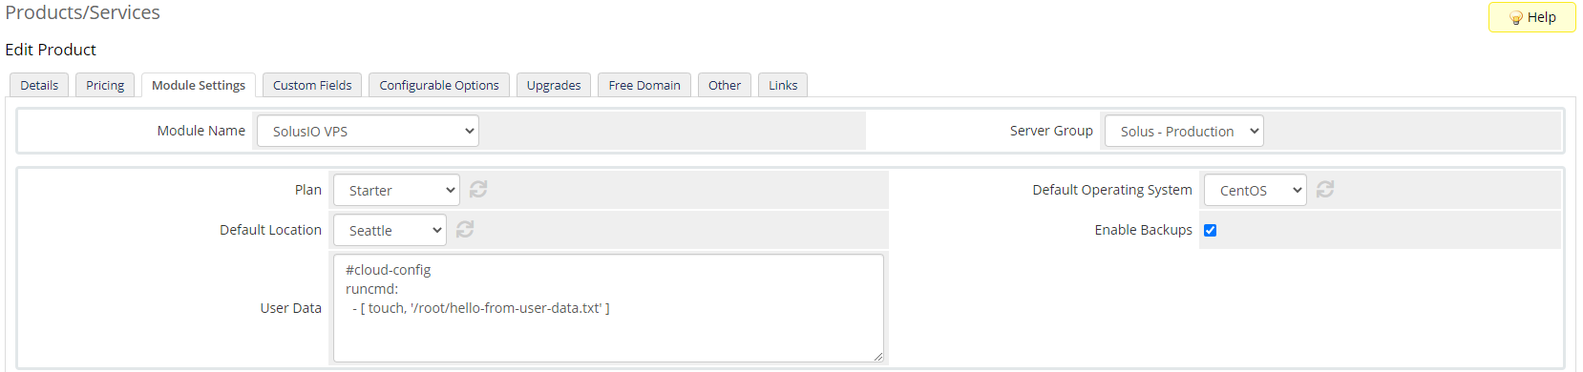
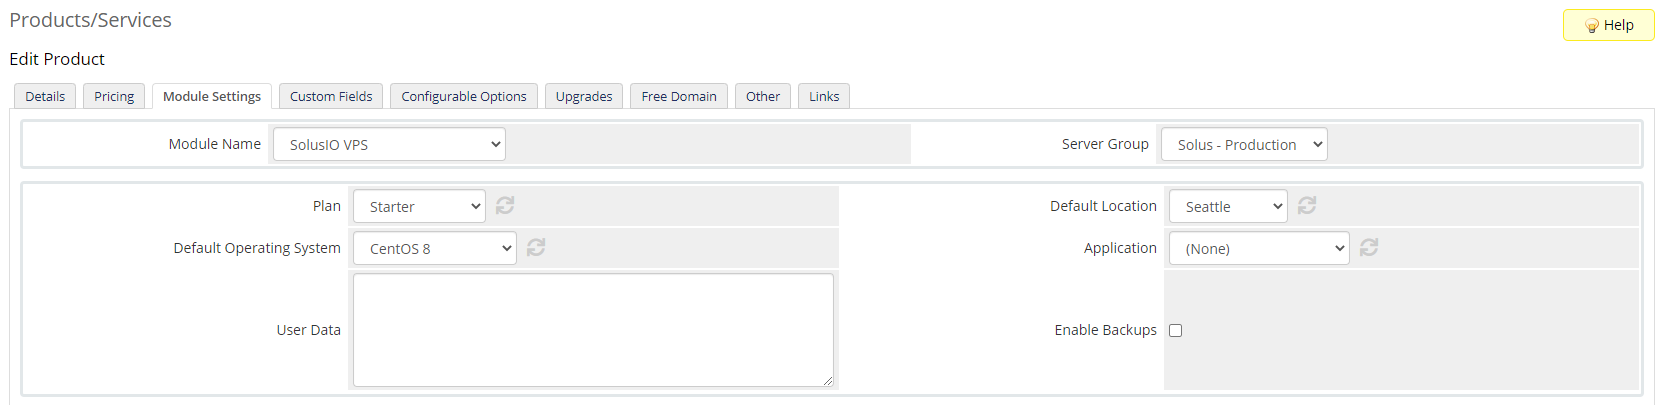
Add support for applications

diff --git a/lib/module.php b/lib/module.php
@@ -7,6 +7,7 @@ use WHMCS\Module\Server\SolusIoVps\Helpers\Arr;
 use WHMCS\Module\Server\SolusIoVps\Logger\Logger;
 use WHMCS\Module\Server\SolusIoVps\SolusAPI\Helpers\DataWrapper;
 use WHMCS\Module\Server\SolusIoVps\SolusAPI\Helpers\Strings;
+use WHMCS\Module\Server\SolusIoVps\SolusAPI\Resources\ApplicationResource;
 use WHMCS\Module\Server\SolusIoVps\SolusAPI\Resources\LocationResource;
 use WHMCS\Module\Server\SolusIoVps\SolusAPI\Resources\OsImageResource;
 use WHMCS\Module\Server\SolusIoVps\SolusAPI\Resources\PlanResource;
@@ -69,13 +70,6 @@ function solusiovps_ConfigOptions(): array
             'Loader' => 'solusiovps_PlanLoader',
             'SimpleMode' => true,
         ],
-        'os_image' => [
-            'FriendlyName' => $_LANG['solusiovps_config_option_default_operating_system'],
-            'Type' => 'text',
-            'Size' => '25',
-            'Loader' => 'solusiovps_OsImageLoader',
-            'SimpleMode' => true,
-        ],
         'location' => [
             'FriendlyName' => $_LANG['solusiovps_config_option_default_location'],
             'Type' => 'text',
@@ -83,9 +77,18 @@ function solusiovps_ConfigOptions(): array
             'Loader' => 'solusiovps_LocationLoader',
             'SimpleMode' => true,
         ],
-        'backup_enabled' => [
-            'FriendlyName' => $_LANG['solusiovps_config_option_backup_enabled'],
-            'Type' => 'yesno',
+        'os_image' => [
+            'FriendlyName' => $_LANG['solusiovps_config_option_default_operating_system'],
+            'Type' => 'text',
+            'Size' => '25',
+            'Loader' => 'solusiovps_OsImageLoader',
+            'SimpleMode' => true,
+        ],
+        'application' => [
+            'FriendlyName' => $_LANG['solusiovps_config_option_application'],
+            'Type' => 'text',
+            'Size' => '25',
+            'Loader' => 'solus_ApplicationLoader',
             'SimpleMode' => true,
         ],
         'user_data' => [
@@ -93,6 +96,11 @@ function solusiovps_ConfigOptions(): array
             'Type' => 'textarea',
             'Rows' => 5,
             'Cols' => 25,
+            'SimpleMode' => true,
+        ],
+        'backup_enabled' => [
+            'FriendlyName' => $_LANG['solusiovps_config_option_backup_enabled'],
+            'Type' => 'yesno',
             'SimpleMode' => true,
         ],
     ];
@@ -171,6 +179,33 @@ function solusiovps_LocationLoader(array $params): array
 
 /**
  * @param array $params
+ * @return array
+ * @throws Exception
+ */
+function solus_ApplicationLoader(array $params): array
+{
+    global $_LANG;
+
+    try {
+        $applicationResource = new ApplicationResource(Connector::create($params));
+        $result = [
+            0 => $_LANG['solusiovps_config_option_none'],
+        ];
+
+        foreach (DataWrapper::wrap($applicationResource->list()) as $item) {
+            $result[Arr::get($item, 'id')] = Arr::get($item, 'name');
+        }
+
+        return $result;
+    } catch (Exception $e) {
+        Logger::log([], $e->getMessage());
+
+        throw $e;
+    }
+}
+
+/**
+ * @param array $params
  * @return string
  */
 function solusiovps_CreateAccount(array $params): string
@@ -211,13 +246,7 @@ function solusiovps_CreateAccount(array $params): string
         $locationId = (int) $params['configoptions'][ProductConfigOption::LOCATION];
 
         if ($locationId === 0) {
-            $locationId = (int) Arr::get($params, 'configoption3');
-        }
-
-        $osId = (int) $params['configoptions'][ProductConfigOption::OPERATING_SYSTEM];
-
-        if ($osId === 0) {
-            $osId = (int) Arr::get($params, 'configoption2');
+            $locationId = (int) Arr::get($params, 'configoption2');
         }
 
         $serviceId = (int) $params['serviceid'];
@@ -227,7 +256,6 @@ function solusiovps_CreateAccount(array $params): string
             'name' => $name,
             'plan' => (int) Arr::get($params, 'configoption1'),
             'location' => $locationId,
-            'os' => $osId,
             'password' => $params['password'],
         ];
 
@@ -237,10 +265,29 @@ function solusiovps_CreateAccount(array $params): string
             ];
         }
 
-        $userData = Arr::get($params, 'configoption5');
+        $appId = (int) Arr::get($params, 'configoption4');
 
-        if ($userData !== '') {
-            $serverData['user_data'] = Strings::convertToUserData($userData);
+        if ($appId > 0) {
+            $appData = $params['customfields'];
+
+            unset($appData[SolusSshKey::CUSTOM_FIELD_SSH_KEY]);
+
+            $serverData['application'] = $appId;
+            $serverData['application_data'] = $appData;
+        } else {
+            $osId = (int) $params['configoptions'][ProductConfigOption::OPERATING_SYSTEM];
+
+            if ($osId === 0) {
+                $osId = (int) Arr::get($params, 'configoption3');
+            }
+
+            $serverData['os'] = $osId;
+
+            $userData = Arr::get($params, 'configoption5');
+
+            if ($userData !== '') {
+                $serverData['user_data'] = Strings::convertToUserData($userData);
+            }
         }
 
         $sshKey = Strings::convertToSshKey($params['customfields'][SolusSshKey::CUSTOM_FIELD_SSH_KEY] ?? '');
@@ -262,7 +309,7 @@ function solusiovps_CreateAccount(array $params): string
             $serverData['ssh_keys'] = [$sshKeyId];
         }
 
-        $isBackupsEnabled = (Arr::get($params, 'configoption4') === 'on');
+        $isBackupsEnabled = (Arr::get($params, 'configoption6') === 'on');
 
         if ($isBackupsEnabled) {
             $serverData['backup_settings'] = [
@@ -410,7 +457,7 @@ function solusiovps_ClientArea(array $params): array
 
         $serverResponse = $serverResource->get($server->server_id);
         $productId = (int) $params['pid'];
-        $defaultOsId = (int) Arr::get($params, 'configoption2');
+        $defaultOsId = (int) Arr::get($params, 'configoption3');
 
         return [
             'tabOverviewReplacementTemplate' => 'templates/overview.tpl',

diff --git a/lang/english.php b/lang/english.php
@@ -9,9 +9,11 @@ if (!defined('WHMCS')) {
 $_LANG['solusiovps_config_option_plan'] = 'Plan';
 $_LANG['solusiovps_config_option_operating_system'] = 'Operating System';
 $_LANG['solusiovps_config_option_default_operating_system'] = 'Default Operating System';
+$_LANG['solusiovps_config_option_application'] = 'Application';
 $_LANG['solusiovps_config_option_default_location'] = 'Default Location';
 $_LANG['solusiovps_config_option_backup_enabled'] = 'Enable Backups';
 $_LANG['solusiovps_config_option_user_data'] = 'User Data';
+$_LANG['solusiovps_config_option_none'] = '(None)';
 
 $_LANG['solusiovps_button_restart'] = 'Restart';
 $_LANG['solusiovps_button_vnc'] = 'VNC Access';

diff --git a/README.md b/README.md
@@ -43,7 +43,7 @@ Create a server group in WHMCS and assign the server which was created on the pr
 
 Create a product in WHMCS and select `SolusIO VPS` as the linked module and the server group you configured previous.
 
-Select the `Plan`, `Default Location` and `Operating System` and save changes.
+Select the `Plan`, `Default Location` and `Default Operating System` or `Application` and save changes. If application is selected then the operating system is ignored.
 
 ### Optional Configuration
 
@@ -68,3 +68,7 @@ Create a configurable option named `Operating System`. Add options with the foll
 The module gives the ability to specify an SSH key on ordering of a product. This is done in the form a product custom field.
 
 Create a custom field named `SSH Key` and type `Text Area`.
+
+#### Applications
+
+Create corresponding product custom fields for applications with the same property names as defined in SolusIO.
